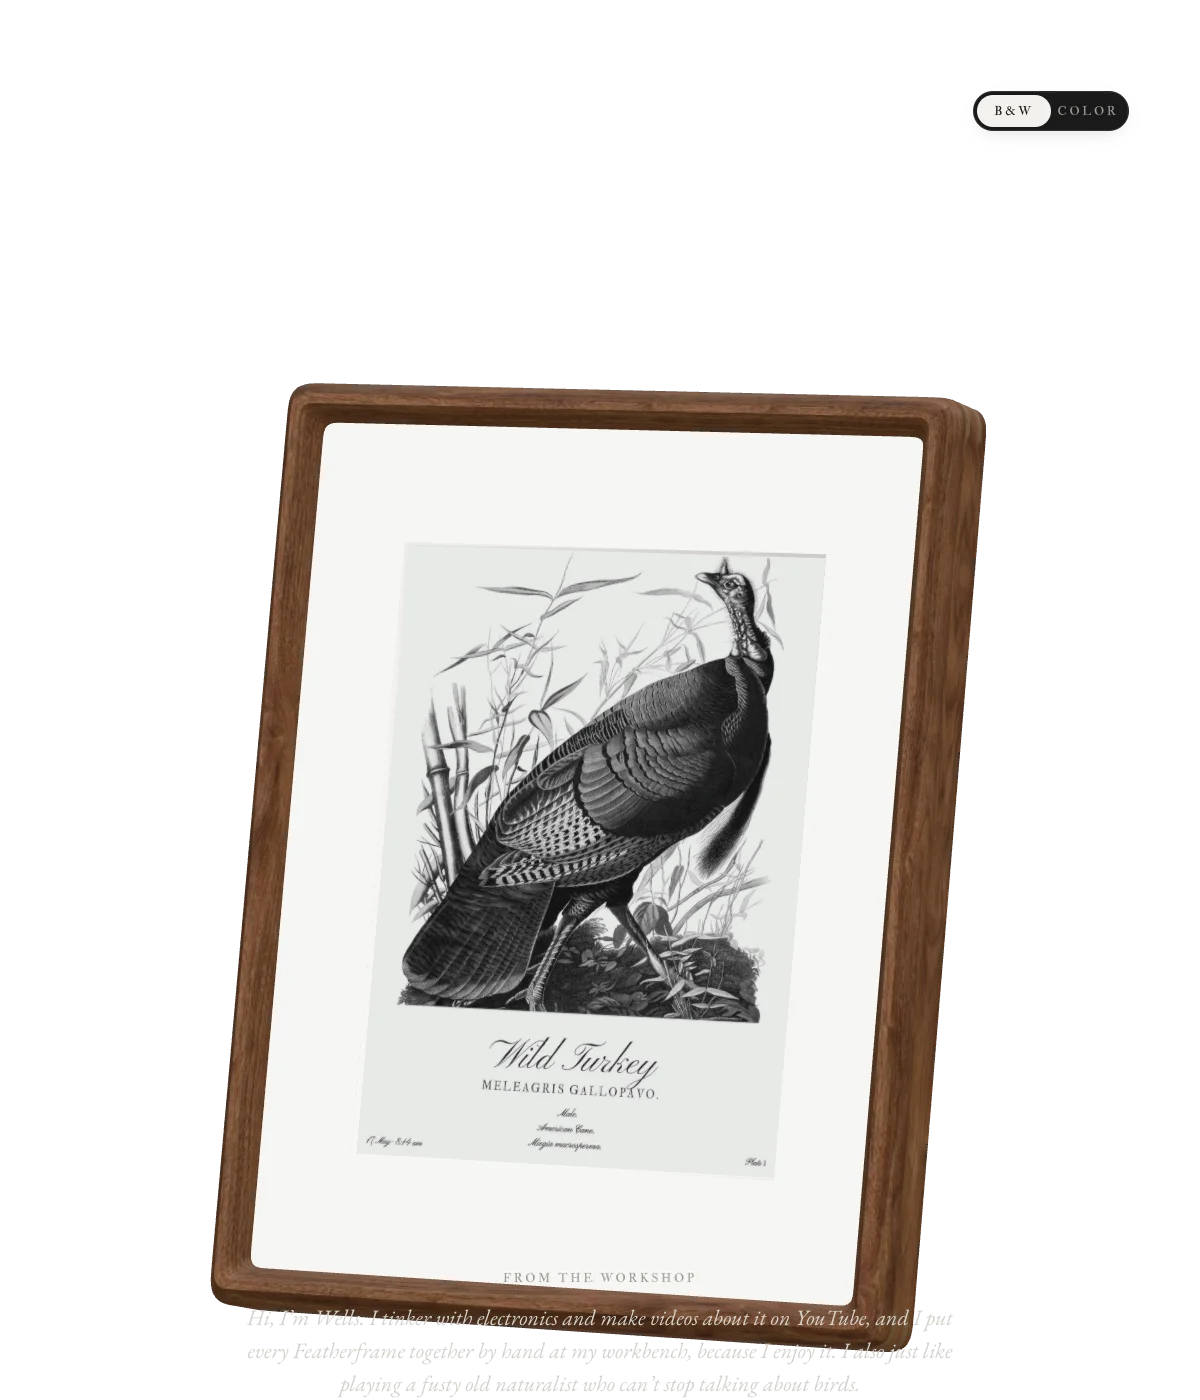
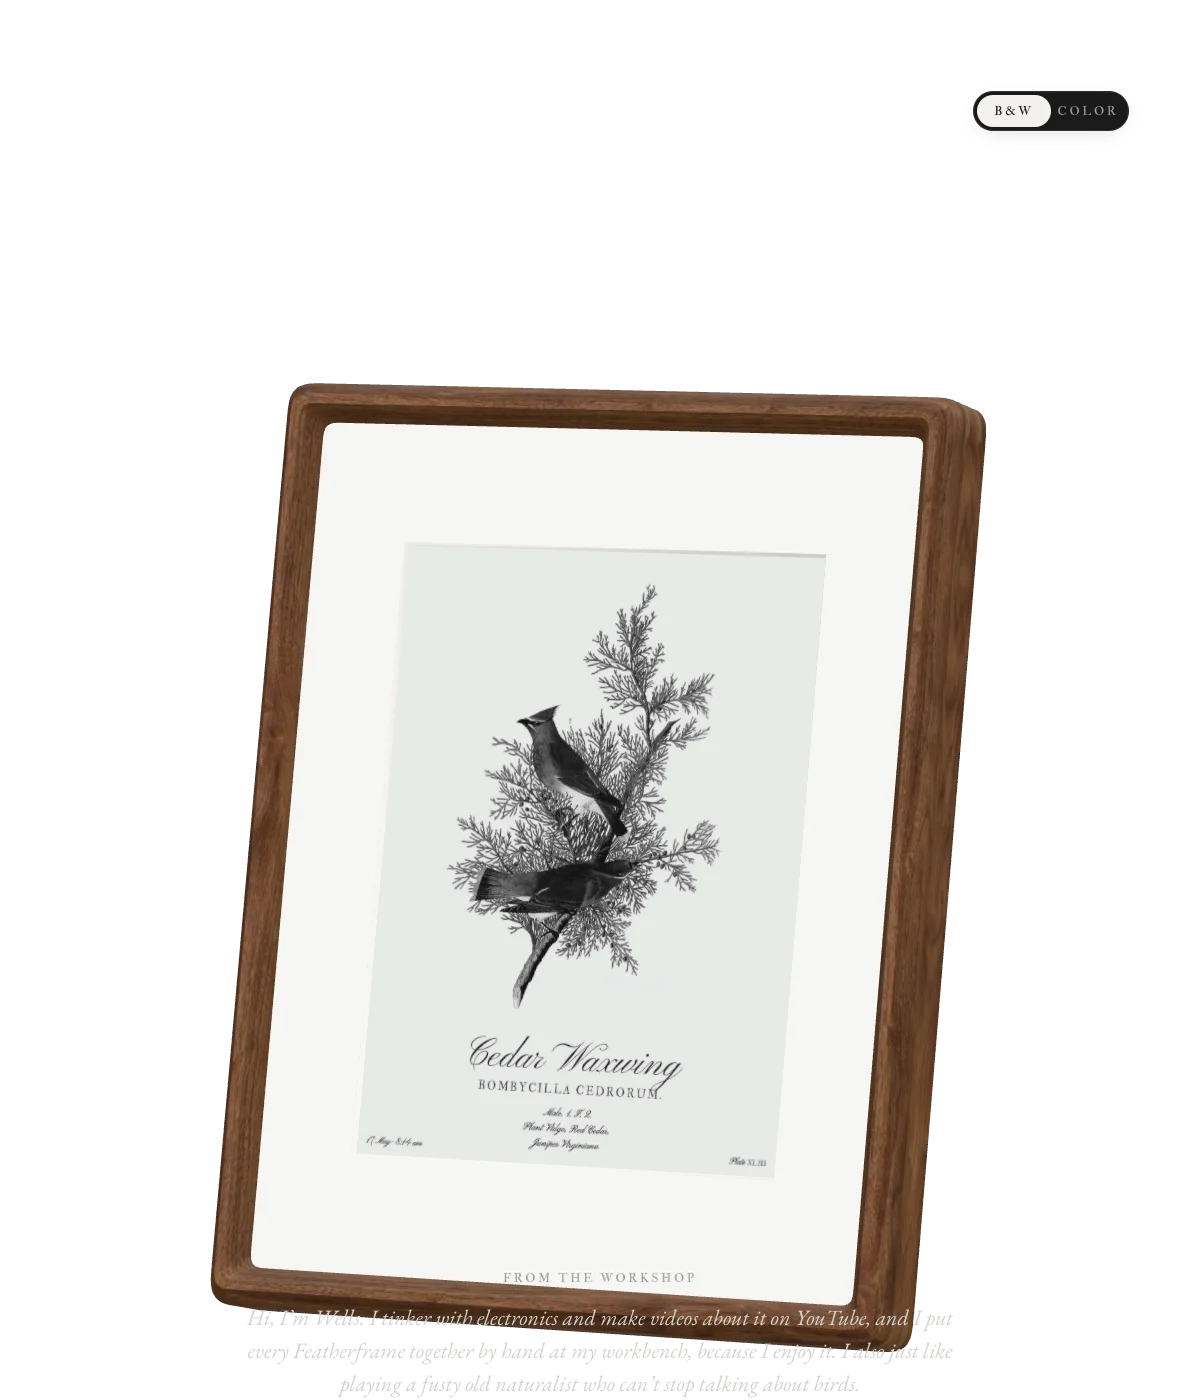
featherframe.app: the Cedar Waxwing on the cover and in the share image, which sets the Featherframe lockup beside the frame instead of repeating the title

Changed region(s): [[0.3392, 0.3993, 0.6475, 0.8293]]

diff --git a/site/public/index.html b/site/public/index.html
@@ -16,12 +16,12 @@
   <meta property="og:image:height" content="630">
   <meta property="og:image:type" content="image/jpeg">
   <meta property="og:locale" content="en_US">
-  <meta property="og:image:alt" content="A walnut Featherframe showing the Wild Turkey from The Birds of America, beside the words “Let the outside in.”">
+  <meta property="og:image:alt" content="A walnut Featherframe showing the Cedar Waxwing from The Birds of America, beside the Featherframe wordmark">
   <meta name="twitter:card" content="summary_large_image">
   <meta name="twitter:title" content="Featherframe: Let the outside in.">
   <meta name="twitter:description" content="Your neighborhood birds, shown as they’re heard, in illustrations from the finest natural history books of the 1800s. From $349, no subscription.">
   <meta name="twitter:image" content="https://featherframe.app/img/og.jpg">
-  <meta name="twitter:image:alt" content="A walnut Featherframe showing the Wild Turkey from The Birds of America, beside the words “Let the outside in.”">
+  <meta name="twitter:image:alt" content="A walnut Featherframe showing the Cedar Waxwing from The Birds of America, beside the Featherframe wordmark">
   <meta name="theme-color" content="#FFFFFF">
   <link rel="icon" type="image/png" sizes="192x192" href="/favicon.png">
   <link rel="apple-touch-icon" href="/apple-touch-icon.png">
@@ -79,7 +79,7 @@
   <h1><span class="l1">Let the</span> <span class="l2">outside in.</span></h1>
   <div class="frame floor">
     <div id="stage" class="stage">
-      <img class="poster" src="img/poster-10.webp" data-toned="img/poster-{tone}.webp" alt="Featherframe, a walnut frame on its kickstand, showing the Wild Turkey from The Birds of America" width="1200" height="1400" fetchpriority="high">
+      <img class="poster" src="img/poster-10.webp" data-toned="img/poster-{tone}.webp" alt="Featherframe, a walnut frame on its kickstand, showing the Cedar Waxwing from The Birds of America" width="1200" height="1400" fetchpriority="high">
     </div>
   </div>
   <div class="copy">
